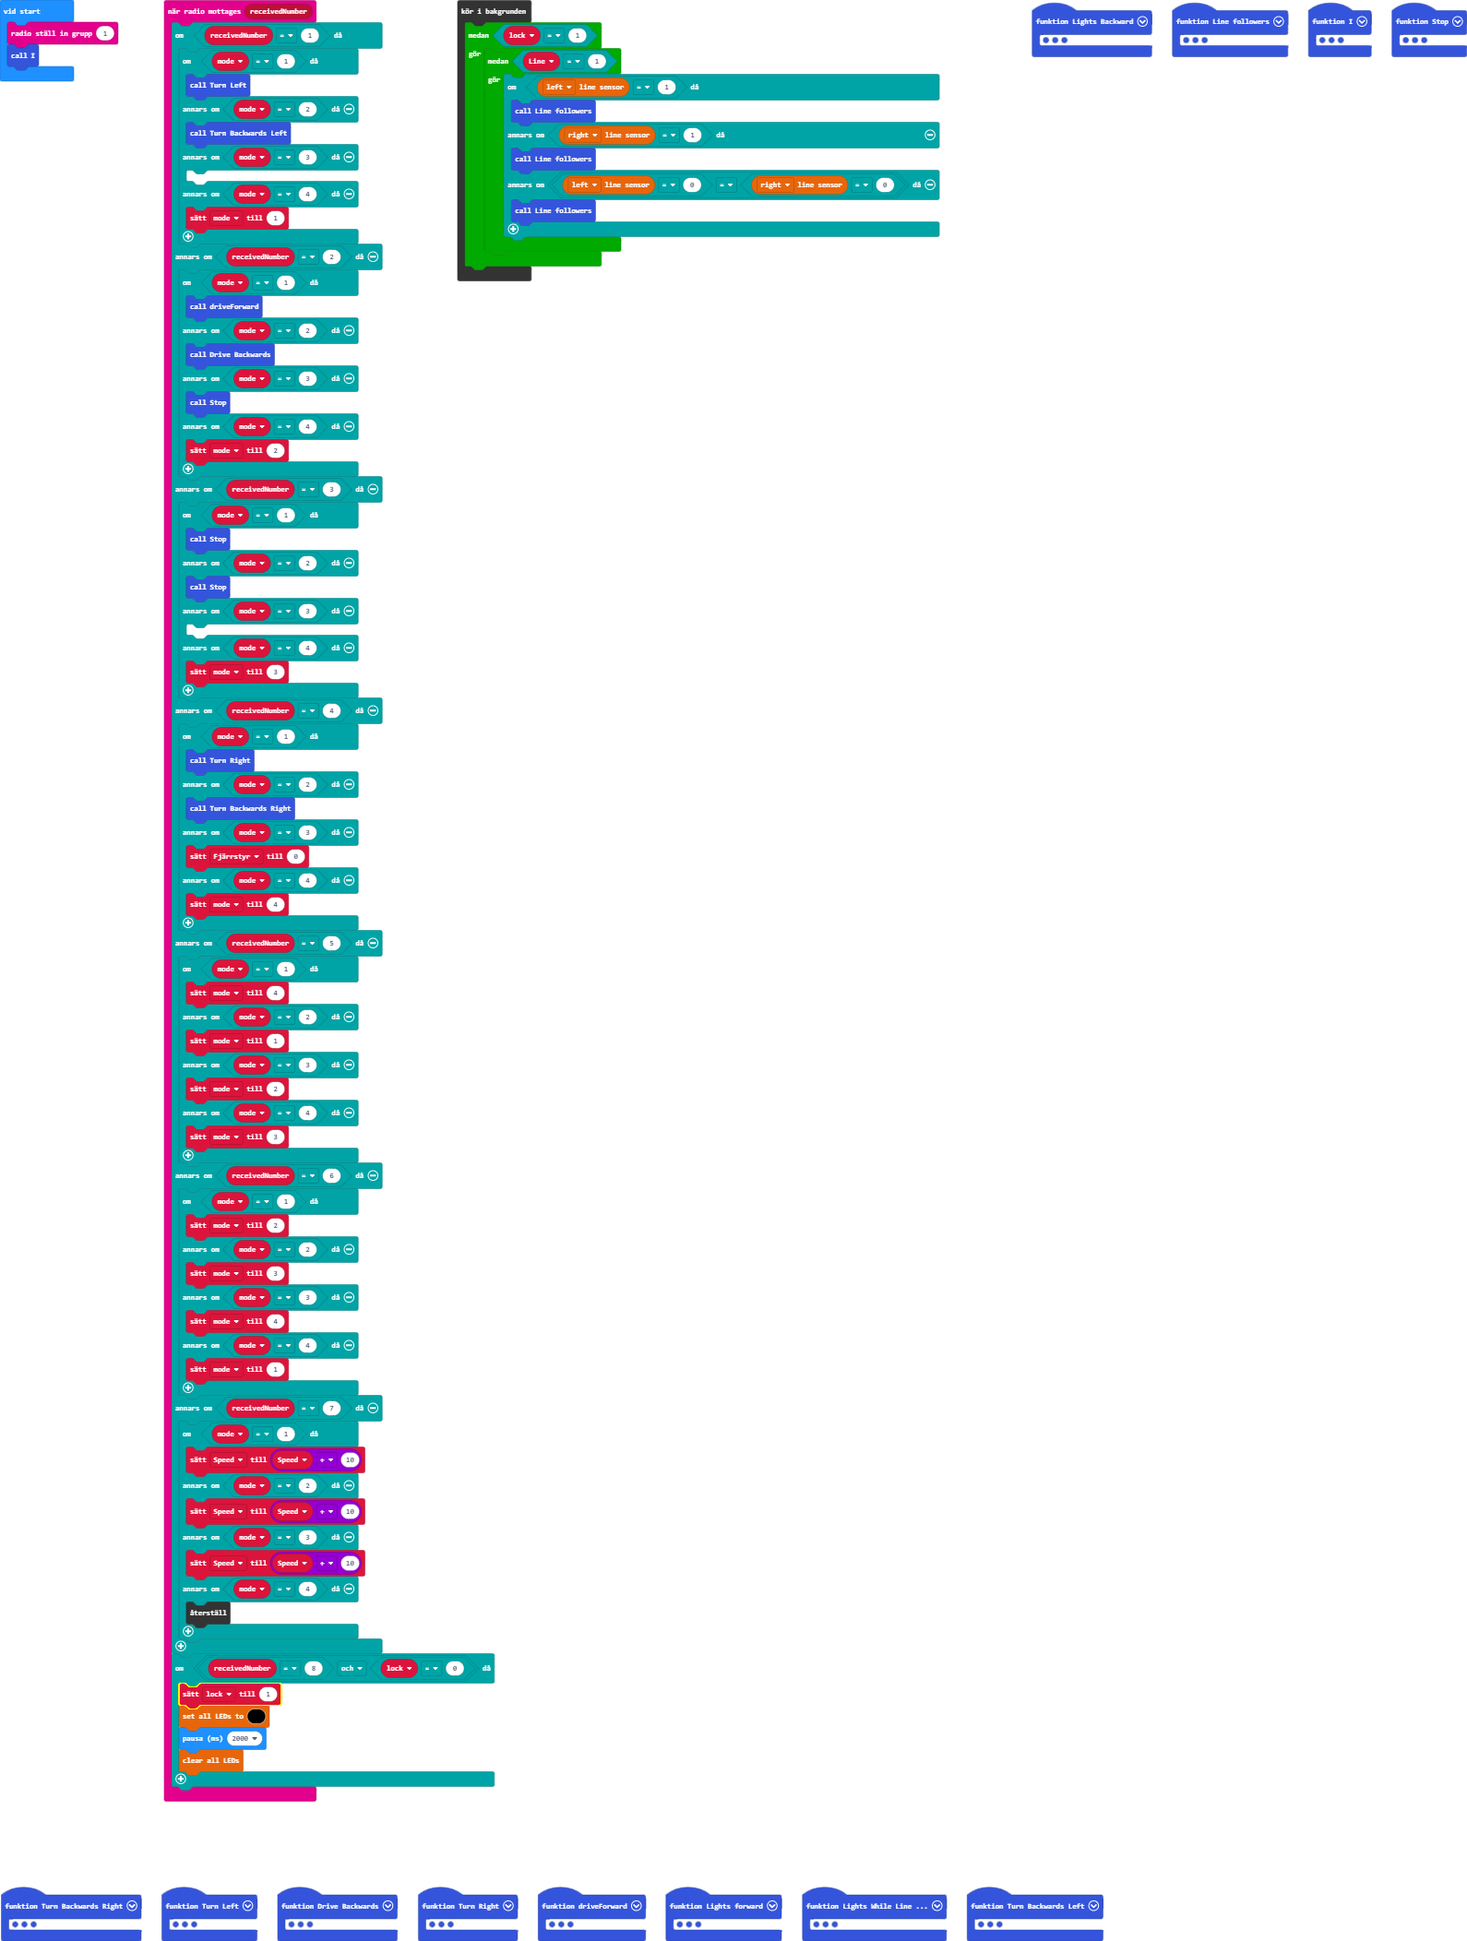
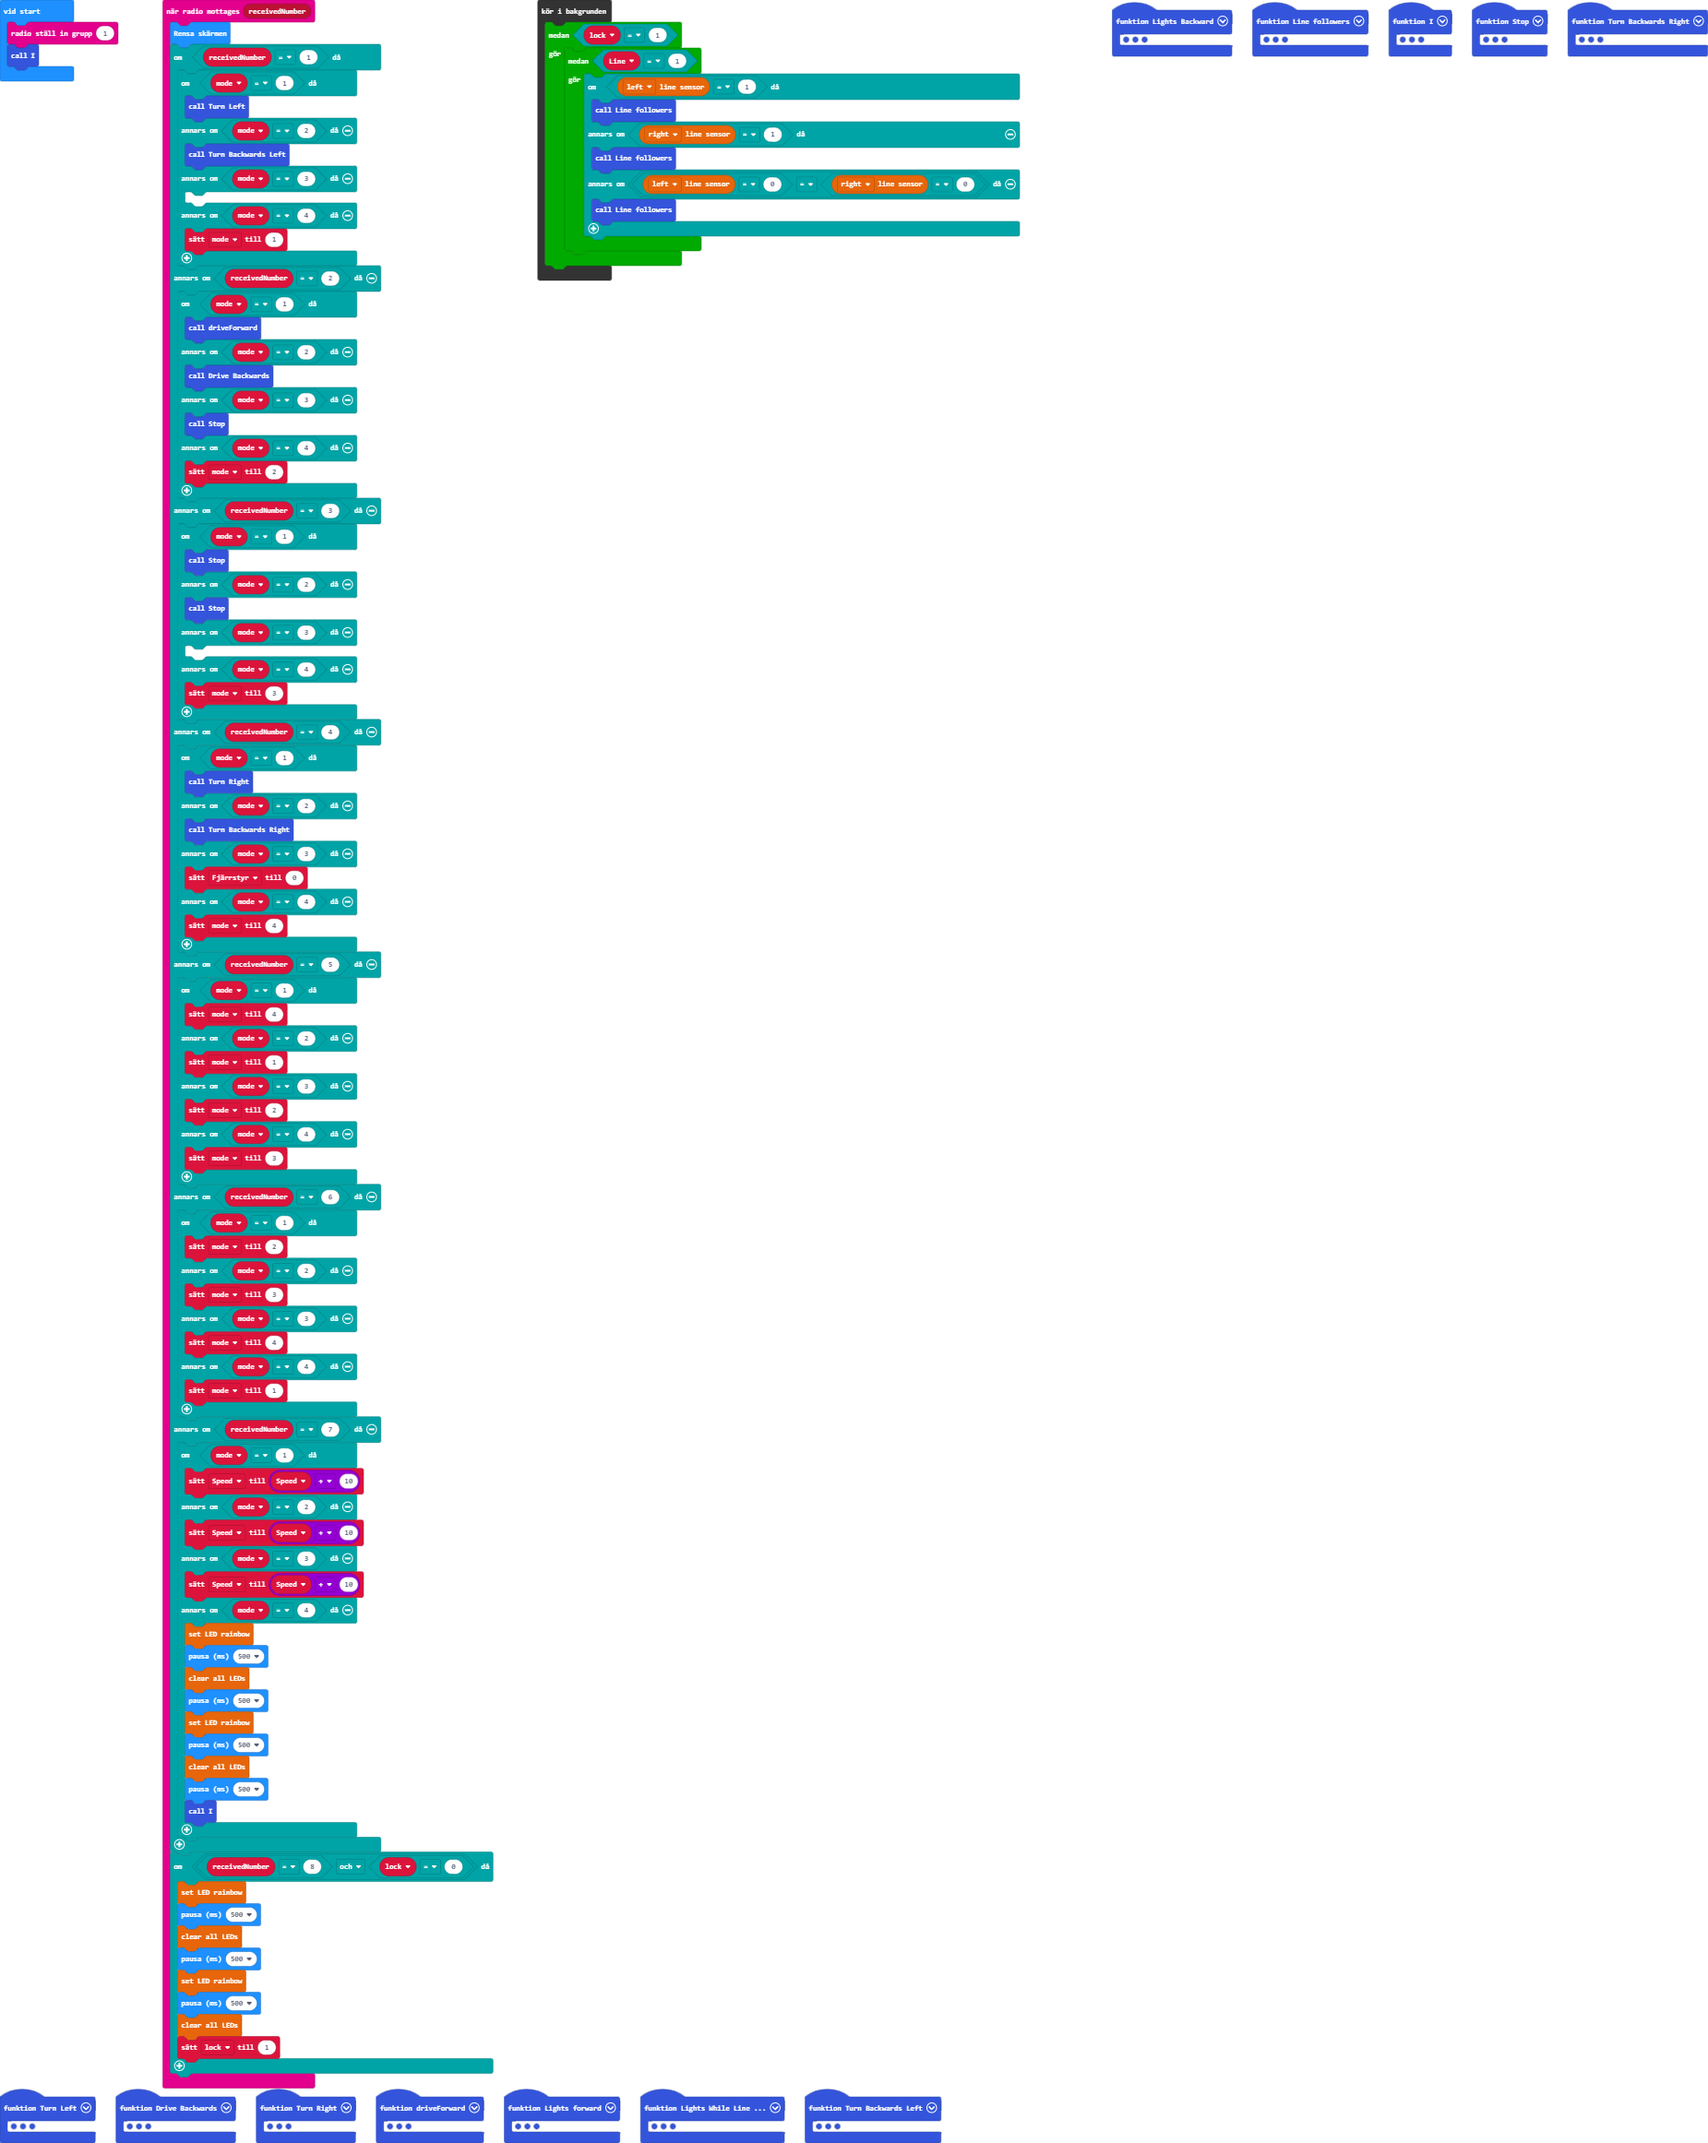
Update main.blocks, main.ts

Changed region(s): [[0.0, 0.0, 0.7704, 1.0], [0.3082, 0.0, 0.6472, 0.1545], [0.6472, 0.0, 1.0, 0.0309]]

diff --git a/main.ts b/main.ts
@@ -44,6 +44,7 @@ function Turn_Backwards_Right () {
     bitbot.stop(BBStopMode.Brake)
 }
 radio.onReceivedNumber(function (receivedNumber) {
+    basic.clearScreen()
     if (receivedNumber == 1) {
         if (mode == 1) {
             Turn_Left()
@@ -112,14 +113,26 @@ radio.onReceivedNumber(function (receivedNumber) {
         } else if (mode == 3) {
             Speed = Speed + 10
         } else if (mode == 4) {
-            control.reset()
+            bitbot.ledRainbow()
+            basic.pause(500)
+            bitbot.ledClear()
+            basic.pause(500)
+            bitbot.ledRainbow()
+            basic.pause(500)
+            bitbot.ledClear()
+            basic.pause(500)
+            I()
         }
     }
     if (receivedNumber == 8 && lock == 0) {
-        lock = 1
-        bitbot.setLedColor(0x000000)
-        basic.pause(2000)
+        bitbot.ledRainbow()
+        basic.pause(500)
         bitbot.ledClear()
+        basic.pause(500)
+        bitbot.ledRainbow()
+        basic.pause(500)
+        bitbot.ledClear()
+        lock = 1
     }
 })
 function Lights_Backward () {
@@ -220,7 +233,7 @@ function I () {
     Drive_Forwords = 0
     Drive_Forwords_Rights = 0
     Halt = 0
-    Speed = 10
+    Speed = 30
     Fjärrstyr = 0
     lock = 0
     mode = 4
